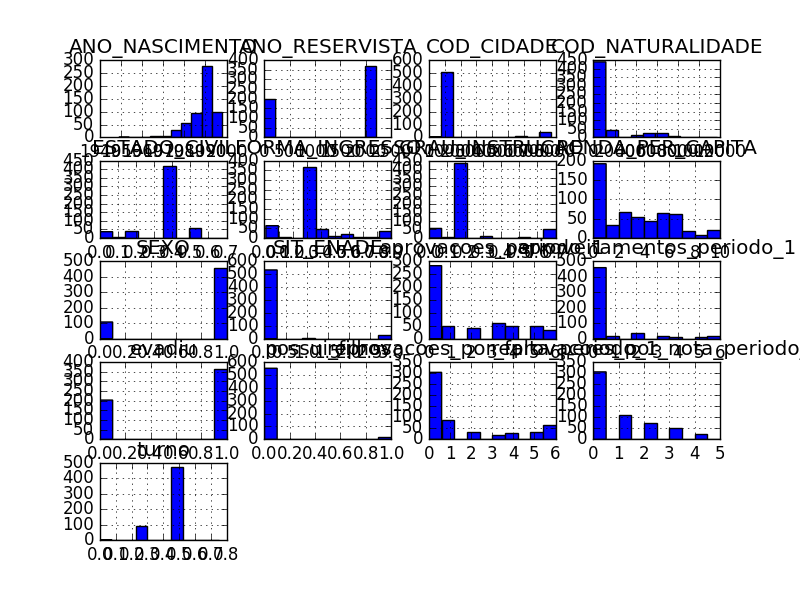
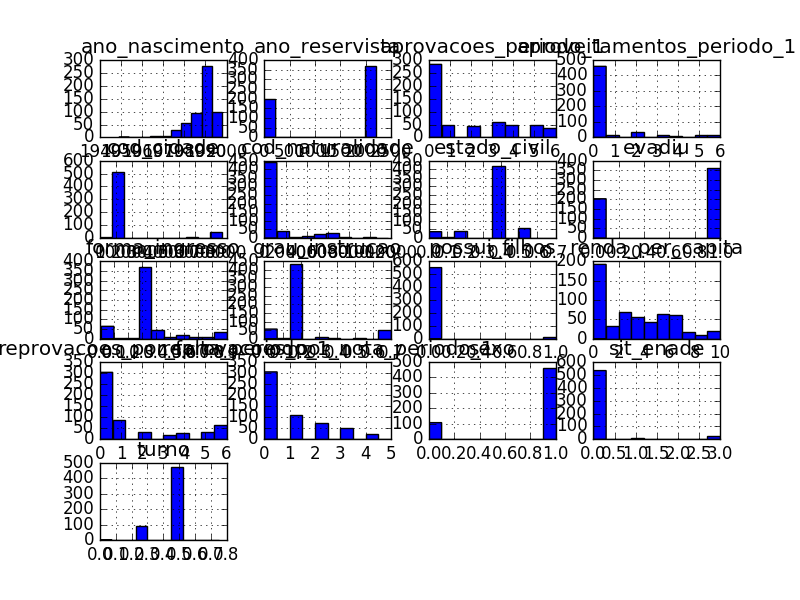
refactoring

Changed region(s): [[0.0, 0.06, 1.0, 0.78]]

diff --git a/lib/eda1.py b/lib/eda1.py
@@ -43,6 +43,7 @@ VALIDATION_SIZE = 0.20
 #global variables
 start = time.clock()
 imageidx = 1
+createImages = True
 
 def pause():
     os.system('read -p "Press Enter to continue..."')
@@ -63,8 +64,8 @@ def loadDataframe(filename):
 #drop not interesting columns and fill NaN values
 def dataCleansing(dataframe):
     #axis: 0 for rows and 1 for columns
-    dataframe.drop('CEP', axis=1, inplace=True)
-    dataframe.drop('SIT_MATRICULA', axis=1, inplace=True)
+    dataframe.drop('cep', axis=1, inplace=True)
+    dataframe.drop('sit_matricula', axis=1, inplace=True)
 
     #replace NaN with 0
     dataframe.fillna(value=0, inplace=True)
@@ -106,67 +107,75 @@ def dataVisualizations(dataframe, outputPath):
     print("\n=== Data visualizations ===")
 
     # histograms
-    print("histograms")
-    dataframe.hist()
-    plt.savefig(outputPath + str(imageidx).zfill(N_DIGITS) + '-histograms.png')
-    imageidx += 1
+    if (createImages):
+        print("histograms")
+        dataframe.hist()
+        plt.savefig(outputPath + str(imageidx).zfill(N_DIGITS) + '-histograms.png')
+        imageidx += 1
 
     # density
-    print("density")
-    dataframe.plot(kind='density', subplots=True, sharex=False, legend=False)
-    plt.savefig(outputPath + str(imageidx).zfill(N_DIGITS) + '-density.png')
-    imageidx += 1
+    if (createImages):
+        print("density")
+        dataframe.plot(kind='density', subplots=True, sharex=False, legend=False)
+        plt.savefig(outputPath + str(imageidx).zfill(N_DIGITS) + '-density.png')
+        imageidx += 1
 
     # box and whisker plots
-    print("box and whisker plots")
-    dataframe.plot(kind='box', subplots=True, layout=(5,5), sharex=False, sharey=False)
-    #dataframe.plot(kind='box', subplots=True, sharex=False, sharey=False)
-    plt.savefig(outputPath + str(imageidx).zfill(N_DIGITS) + '-box.png')
-    imageidx += 1
+    if (createImages):
+        print("box and whisker plots")
+        dataframe.plot(kind='box', subplots=True, layout=(5,5), sharex=False, sharey=False)
+        #dataframe.plot(kind='box', subplots=True, sharex=False, sharey=False)
+        plt.savefig(outputPath + str(imageidx).zfill(N_DIGITS) + '-box.png')
+        imageidx += 1
 
     # scatter plot matrix
-    print("scatter plot matrix")
-    scatter_matrix(dataframe)
-    #plt.show()
-    plt.savefig(outputPath + str(imageidx).zfill(N_DIGITS) + '-scatter-plot.png')
-    imageidx += 1
+    if (createImages):
+        print("scatter plot matrix")
+        scatter_matrix(dataframe)
+        #plt.show()
+        plt.savefig(outputPath + str(imageidx).zfill(N_DIGITS) + '-scatter-plot.png')
+        imageidx += 1
 
     # correlation matrix
-    print("correlation matrix")
-    fig = plt.figure()
-    ax = fig.add_subplot(111)
-    cax = ax.matshow(dataframe.corr(), vmin=-1, vmax=1, interpolation='none')
-    fig.colorbar(cax)
-    #plt.show()
-    plt.savefig(outputPath + str(imageidx).zfill(N_DIGITS) + '-correlation-matrix.png')
-    imageidx += 1
+    if (createImages):
+        print("correlation matrix")
+        fig = plt.figure()
+        ax = fig.add_subplot(111, autoscale_on=True)
+        cax = ax.matshow(dataframe.corr(), vmin=-1, vmax=1, interpolation='none')
+        fig.colorbar(cax)
+        #plt.show()
+        plt.savefig(outputPath + str(imageidx).zfill(N_DIGITS) + '-correlation-matrix.png')
+        imageidx += 1
 
     # histograms of standardized data
-    print("histograms of standardized data")
-    array = dataframe.values
-    Ax = array[:,0:ncolumns-1].astype(float)
-    Ay = array[:,ncolumns-1]
-    scaler = StandardScaler().fit(Ax)
-    rescaledX = scaler.transform(Ax)
-    stdDataframe = DataFrame(data=rescaledX)
-    stdDataframe.hist()
-    #plt.show()
-    plt.savefig(outputPath + str(imageidx).zfill(N_DIGITS) + '-standardized-histograms.png')
-    imageidx += 1
+    if (createImages):
+        print("histograms of standardized data")
+        array = dataframe.values
+        Ax = array[:,0:ncolumns-1].astype(float)
+        Ay = array[:,ncolumns-1]
+        scaler = StandardScaler().fit(Ax)
+        rescaledX = scaler.transform(Ax)
+        stdDataframe = DataFrame(data=rescaledX)
+        stdDataframe.hist()
+        #plt.show()
+        plt.savefig(outputPath + str(imageidx).zfill(N_DIGITS) + '-standardized-histograms.png')
+        imageidx += 1
     
     # density of standardized data
-    print("density of standardized data")
-    stdDataframe.plot(kind='density', subplots=True, sharex=False, legend=False)
-    plt.savefig(outputPath + str(imageidx).zfill(N_DIGITS) + '-standardized-density.png')
-    imageidx += 1
+    if (createImages):
+        print("density of standardized data")
+        stdDataframe.plot(kind='density', subplots=True, sharex=False, legend=False)
+        plt.savefig(outputPath + str(imageidx).zfill(N_DIGITS) + '-standardized-density.png')
+        imageidx += 1
     
     
     # box and whisker plots of standardized data
-    print("box and whisker plots of standardized data")
-    stdDataframe.plot(kind='box', subplots=True, layout=(5,5), sharex=False, sharey=False)
-    #stdDataframe.plot(kind='box', subplots=True, sharex=False, sharey=False)
-    plt.savefig(outputPath + str(imageidx).zfill(N_DIGITS) + '-standardized-box.png')
-    imageidx += 1
+    if (createImages):
+        print("box and whisker plots of standardized data")
+        stdDataframe.plot(kind='box', subplots=True, layout=(5,5), sharex=False, sharey=False)
+        #stdDataframe.plot(kind='box', subplots=True, sharex=False, sharey=False)
+        plt.savefig(outputPath + str(imageidx).zfill(N_DIGITS) + '-standardized-box.png')
+        imageidx += 1
     
     plt.close('all')
 
@@ -187,7 +196,7 @@ def splitoutValidationDataset(dataframe):
 
 
 # Evaluate Algorithms
-def evaluteAlgorithms(X_train, X_validation, Y_train, Y_validation, outputPath):
+def evaluteAlgorithms(X_train, Y_train, outputPath):
     global imageidx
     
     print '\n=== Evaluate algorithms ==='
@@ -214,20 +223,21 @@ def evaluteAlgorithms(X_train, X_validation, Y_train, Y_validation, outputPath):
         print(msg)
 
     # Compare Algorithms
-    fig = plt.figure()
-    fig.suptitle('Algorithm Comparison')
-    ax = fig.add_subplot(111)
-    plt.boxplot(results)
-    ax.set_xticklabels(names)
-    #plt.show()
-    plt.savefig(outputPath + str(imageidx).zfill(N_DIGITS) + '-compare-algorithms.png')
-    imageidx += 1
+    if (createImages):
+        fig = plt.figure()
+        fig.suptitle('Algorithm Comparison')
+        ax = fig.add_subplot(111)
+        plt.boxplot(results)
+        ax.set_xticklabels(names)
+        #plt.show()
+        plt.savefig(outputPath + str(imageidx).zfill(N_DIGITS) + '-compare-algorithms.png')
+        imageidx += 1
 
     plt.close('all')
     
     
 # Standardize the dataset and reevaluate algorithms
-def standardizeDataAndReevaluateAlgorithms(X_train, X_validation, Y_train, Y_validation, outputPath):
+def standardizeDataAndReevaluateAlgorithms(X_train, Y_train, outputPath):
     global imageidx
     print '\n === Standardize the dataset and reevaluate algorithms ==='
     
@@ -251,19 +261,20 @@ def standardizeDataAndReevaluateAlgorithms(X_train, X_validation, Y_train, Y_val
         print(msg)
 
     # Compare Algorithms
-    fig = plt.figure()
-    fig.suptitle('Algorithm Comparison - Standardized Dataset')
-    ax = fig.add_subplot(111)
-    plt.boxplot(results)
-    ax.set_xticklabels(names)
-    #plt.show()
-    plt.savefig(outputPath + str(imageidx).zfill(N_DIGITS) + '-compare-algorithms-standardized-dataset.png')
-    imageidx += 1
+    if (createImages):
+        fig = plt.figure()
+        fig.suptitle('Algorithm Comparison - Standardized Dataset')
+        ax = fig.add_subplot(111)
+        plt.boxplot(results)
+        ax.set_xticklabels(names)
+        #plt.show()
+        plt.savefig(outputPath + str(imageidx).zfill(N_DIGITS) + '-compare-algorithms-standardized-dataset.png')
+        imageidx += 1
 
     plt.close('all')
     
 # Evaluate Ensemble Algorithms
-def evaluateEnsembleAlgorith(X_train, X_validation, Y_train, Y_validation, outputPath):
+def evaluateEnsembleAlgorith(X_train, Y_train, outputPath):
     global imageidx
     print '\n === Evaluate Ensemble Algorithms ==='
 
@@ -285,14 +296,15 @@ def evaluateEnsembleAlgorith(X_train, X_validation, Y_train, Y_validation, outpu
         print(msg)
 
     # Compare Algorithms
-    fig = plt.figure()
-    fig.suptitle('Ensemble Algorithm Comparison')
-    ax = fig.add_subplot(111)
-    plt.boxplot(results)
-    ax.set_xticklabels(names)
-    #plt.show()
-    plt.savefig(outputPath + str(imageidx).zfill(N_DIGITS) + '-Ensemble-Algorithm-Compariso.png')
-    imageidx += 1
+    if (createImages):
+        fig = plt.figure()
+        fig.suptitle('Ensemble Algorithm Comparison')
+        ax = fig.add_subplot(111)
+        plt.boxplot(results)
+        ax.set_xticklabels(names)
+        #plt.show()
+        plt.savefig(outputPath + str(imageidx).zfill(N_DIGITS) + '-Ensemble-Algorithm-Compariso.png')
+        imageidx += 1
     
     plt.close('all')
     
@@ -301,22 +313,28 @@ def reset_imageidx(value=1):
     global imageidx
     imageidx = value
     
+def set_createImages(value):
+    global createImages
+    createImages = value
+    
+    
 # ===================================================
 # ================== main function ==================
 # ===================================================
-def run(inputPath, outputPath):
+def run(inputFilePath, outputPath, createImagesFlag):
     global imageidx
     global start
     print '<<< Running Exploratory Data Analysis #1 ==='
 
     imageidx = 1
     start = time.clock()
+    set_createImages(createImagesFlag)
     
     if not os.path.exists(outputPath):
         os.makedirs(outputPath)    
         
     # Load dataset
-    dataframe = loadDataframe(inputPath + 'curso_1200.csv')
+    dataframe = loadDataframe(inputFilePath)
     dataframe = dataCleansing(dataframe)
     
     # Understand the data
@@ -327,13 +345,13 @@ def run(inputPath, outputPath):
     X_train, X_validation, Y_train, Y_validation = splitoutValidationDataset(dataframe)
     
     # Evaluate Algorithms
-    evaluteAlgorithms(X_train, X_validation, Y_train, Y_validation, outputPath)
+    evaluteAlgorithms(X_train, Y_train, outputPath)
     
     # Standardize the dataset and reevaluate the same algorithms
-    standardizeDataAndReevaluateAlgorithms(X_train, X_validation, Y_train, Y_validation, outputPath)
+    standardizeDataAndReevaluateAlgorithms(X_train, Y_train, outputPath)
     
     # Evaluate Ensemble Algorithms
-    evaluateEnsembleAlgorith(X_train, X_validation, Y_train, Y_validation, outputPath)    
+    evaluateEnsembleAlgorith(X_train, Y_train, outputPath)  
     
     duration()    
     print '=== Running Exploratory Data Analysis #1 >>>'

diff --git a/main.py b/main.py
@@ -12,11 +12,21 @@ Use Machine Learning techniques to model a student's dropout prediction system f
 # Load libraries
 import lib.eda1 as eda1
 import lib.eda2 as eda2
+import lib.eda3 as eda3
 
 print '<<< main ==='
 
+#debug flags
+createImagesFlag = True
+#createImagesFlag = False
+
+
+
+inputFilePath = '../input/curso_1200.csv'
+
 #run exploratory data analyses
-eda1.run('../input/', 'output/eda1/')
-eda2.run('../input/', 'output/eda2/')
+eda1.run(inputFilePath, 'output/eda1/', createImagesFlag)
+eda2.run(inputFilePath, 'output/eda2/', createImagesFlag)
+#eda3.run(inputFilePath, 'output/eda3/', createImagesFlag)
 
 print '=== main >>>'
